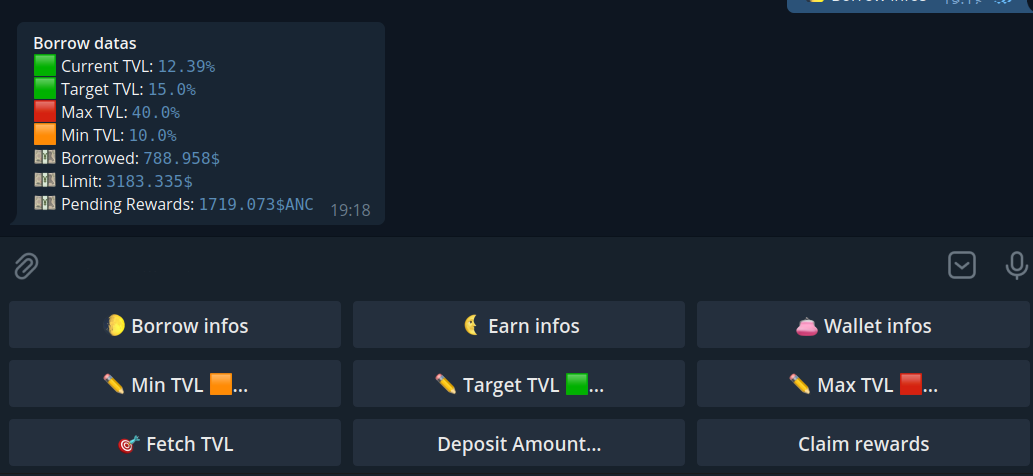
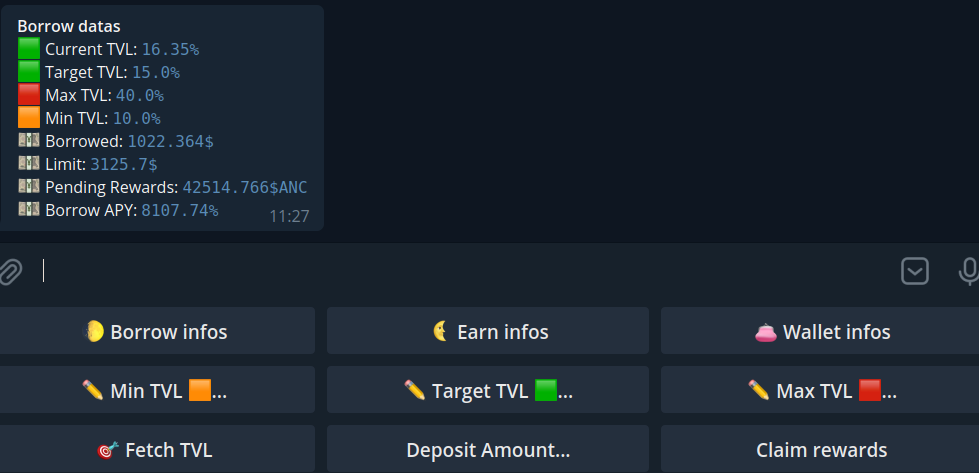
update readme

diff --git a/readme.md b/readme.md
@@ -90,6 +90,7 @@ then \
 - Borrowed amount
 - Borrow Limit amount
 - Pending $ANC rewards
+- Current Borrow APY
 
 ![image](./imgs/borrow_infos.png)
 
@@ -144,7 +145,7 @@ If the bot is borrowing, it will deposit automatically the amount to Earn
 
 ## Deposit UST to earn
 If you have some unused UST in your wallet, you can do a deposit to Earn. \
-The bos ask you the amount you want to deposit. \
+The bot ask you the amount you want to deposit. \
 Keep in mind, you must have this amount in your wallet.
 
 ![image](./imgs/deposit.png)
